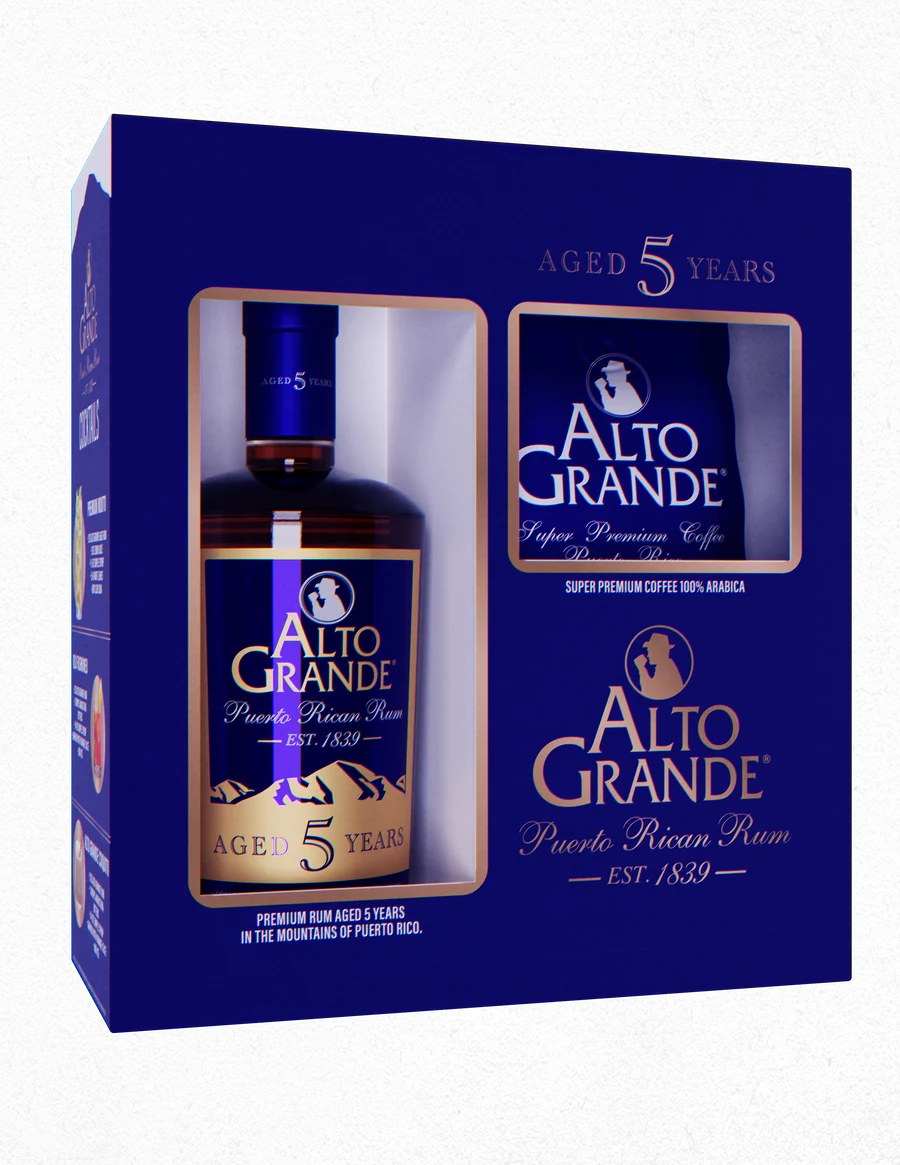
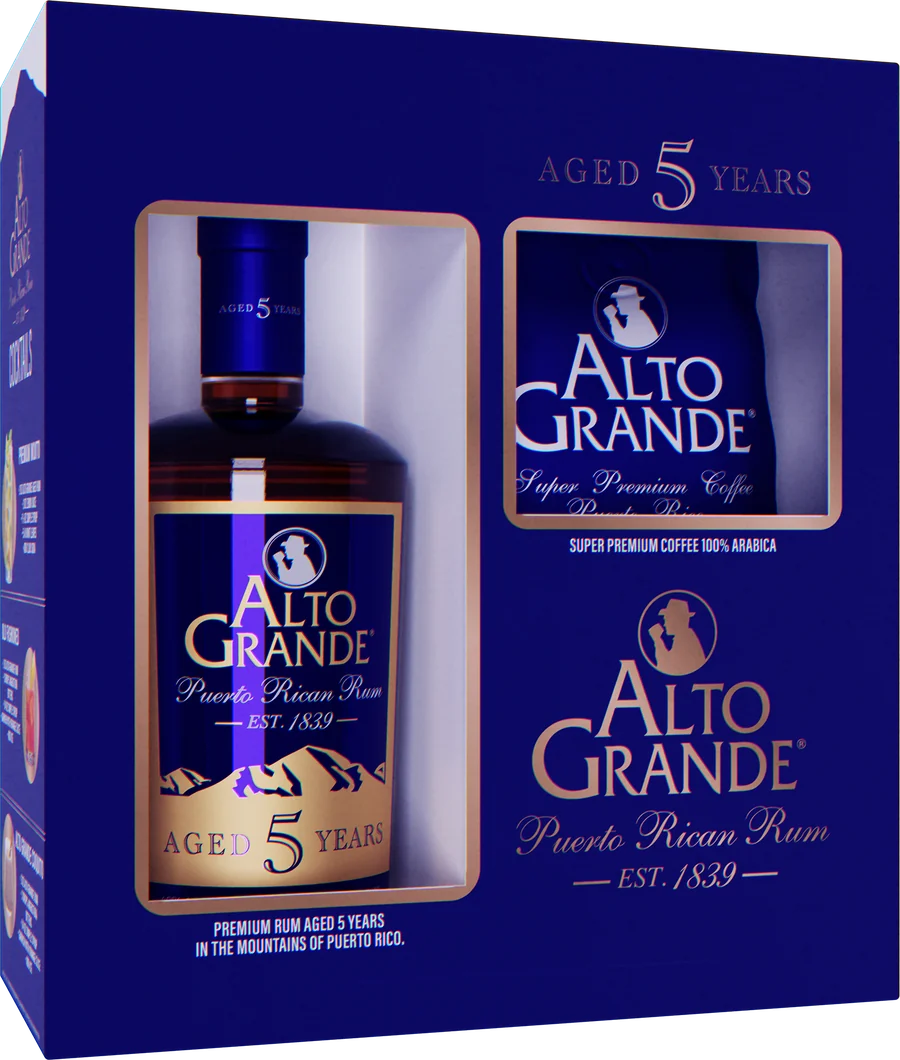
Clean faint background plate from Retail Box web images
Claude-Session: https://claude.ai/code/session_011gjPqwT4f93VcpnVQqQFKy

diff --git a/index.html b/index.html
@@ -312,7 +312,7 @@ footer{padding:36px 0 48px;display:flex;justify-content:space-between;flex-wrap:
       </article>
       <article class="tile">
         <div class="shot">
-          <img class="rotator photo" src="images/web/retail-box/package01.webp" data-images="images/web/retail-box/package01.webp,images/web/retail-box/package02.webp,images/web/retail-box/package03.webp" alt="Retail gift box render" width="900" height="1165" decoding="async">
+          <img class="rotator photo" src="images/web/retail-box/package01.webp" data-images="images/web/retail-box/package01.webp,images/web/retail-box/package02.webp,images/web/retail-box/package03.webp" alt="Retail gift box render" width="900" height="1060" decoding="async">
         </div>
         <div class="cap"><b>Retail box</b><span>Packaging mockup · dieline to 3D</span></div>
       </article>
